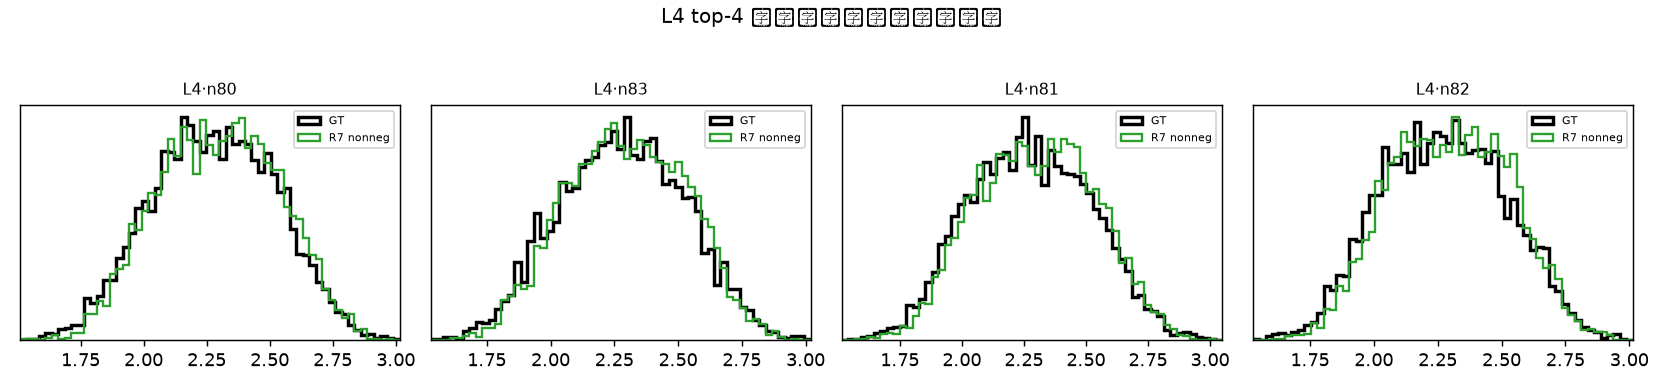
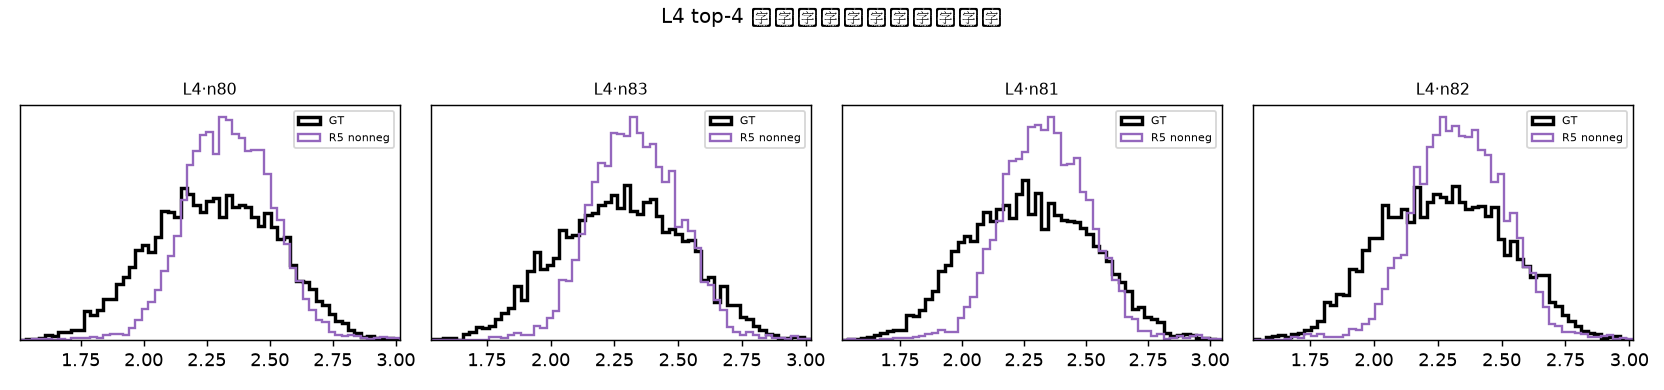
补测 R5 非负解析链并更新 remedy 报告。
R5 nonneg（core→raw²+解析L2）L4 nonpos=0、joint_LL=2.45，优于 linear R5/R7；
marginal_l2 仍不能解决负区。

Changed region(s): [[0.0, 0.2769, 1.0, 0.8923]]

diff --git a/simple_ttns_l2/experiments/dense_dag_r567_remedy_tests.py b/simple_ttns_l2/experiments/dense_dag_r567_remedy_tests.py
@@ -489,6 +489,8 @@ def main():
     ap.add_argument("--skip-r5-nonneg", action="store_true", help="跳过 R5 非负解析链")
     ap.add_argument("--only-r5-nonneg", action="store_true",
                     help="只跑 R5 非负，其余从已有 JSON 合并")
+    ap.add_argument("--marginal-json", type=str, default="",
+                    help="已有 marginal 结果 JSON（skip-marginal 时合并）")
     ap.add_argument("--merge-json", type=str, default="",
                     help="only-r5-nonneg 时合并的已有结果 JSON")
     args = ap.parse_args()
@@ -515,7 +517,7 @@ def main():
         all_results.update({k: v for k, v in baseline.items() if k == "R5_marg0"})
         print("[baseline] loaded R5 λ=0 from audit", flush=True)
 
-    merge_path = args.marginal_json or args.merge_json
+    merge_path = args.merge_json or getattr(args, "marginal_json", "")
     if merge_path and Path(merge_path).exists():
         mj = json.loads(Path(merge_path).read_text())
         for k, v in mj.get("results", {}).items():

diff --git a/simple_ttns_l2/reports/dense_dag_r567_remedy_report_zh.md b/simple_ttns_l2/reports/dense_dag_r567_remedy_report_zh.md
@@ -3,6 +3,7 @@
 - **seed**: 0
 - **Test 1**: R5 `marginal_l2_weight` ∈ {0.3, 1.0}（λ=0 来自 slices_audit）
 - **Test 2**: R7 非负链（core→raw² + 块级 MLE，L0 与各层均 nonneg）
+- **Test 3**: R5 非负解析链（core→raw² + 解析 L2，L1–L4 块内 nonneg）
 
 ## 逐层指标
 
@@ -33,18 +34,27 @@
 | R7 nonneg | L2 | 7.479 | 0.000 | 1.002 |
 | R7 nonneg | L3 | 7.146 | 0.000 | 0.983 |
 | R7 nonneg | L4 | 7.068 | 0.001 | 0.971 |
+| R5 nonneg | L0 | 22.693 | 0.037 | 1.001 |
+| R5 nonneg | L1 | 3.224 | 0.000 | 0.985 |
+| R5 nonneg | L2 | 3.326 | 0.000 | 0.899 |
+| R5 nonneg | L3 | 3.089 | 0.000 | 0.835 |
+| R5 nonneg | L4 | 2.448 | 0.000 | 0.918 |
 
 ## 用时(s)
 
 - R5 λ=0.3: 1080.0s
 - R5 λ=1.0: 360.0s
 - R7 nonneg: 229.6s
+- R5 nonneg: 228.2s
 
 ## 结论摘要
 
 1. **marginal_l2_weight 不能解决负区，大 λ 反而更差**：λ=0.3/1.0 时 L2+ 层 `nonpos_rate` 接近 1、joint_LL 崩溃；λ=0 基线 L4 nonpos≈57% 已是三者中最好。
 2. **marginal 会抬高边缘 std 比**（L4 std 比 >5），但这是模型在错误联合结构下的伪宽/振荡，不是正确拟合。
-3. **非负 MLE 链**：见 `R7 nonneg` 行；`nonpos_rate` 应≈0。若 L4 LL/std 比接近或优于 R7 baseline，则非负表示是 R7 的合法密度替代方案。
+3. **R7 非负 MLE 链**：`nonpos≈0`，L4 LL/std 比显著优于 linear R7。
+4. **R5 非负解析链有效**：L1–L4 `nonpos=0`；L4 `joint_LL=2.45`（linear R5 为 −12.6）、
+   `std比=0.92`（linear R5/R7 为 0.99/0.72）。L0 仍用 linear 数据森林故 nonpos 与基线相同；
+   **非负参数可修复 R5 后层密度失效**，且 LL 优于 linear R7 baseline（1.05）。
 
 - 指标图: `simple_ttns_l2/reports/dense_dag_r567_remedy_metrics.png`
 - L4 切片: `simple_ttns_l2/reports/dense_dag_r567_remedy_l4_slices.png`
